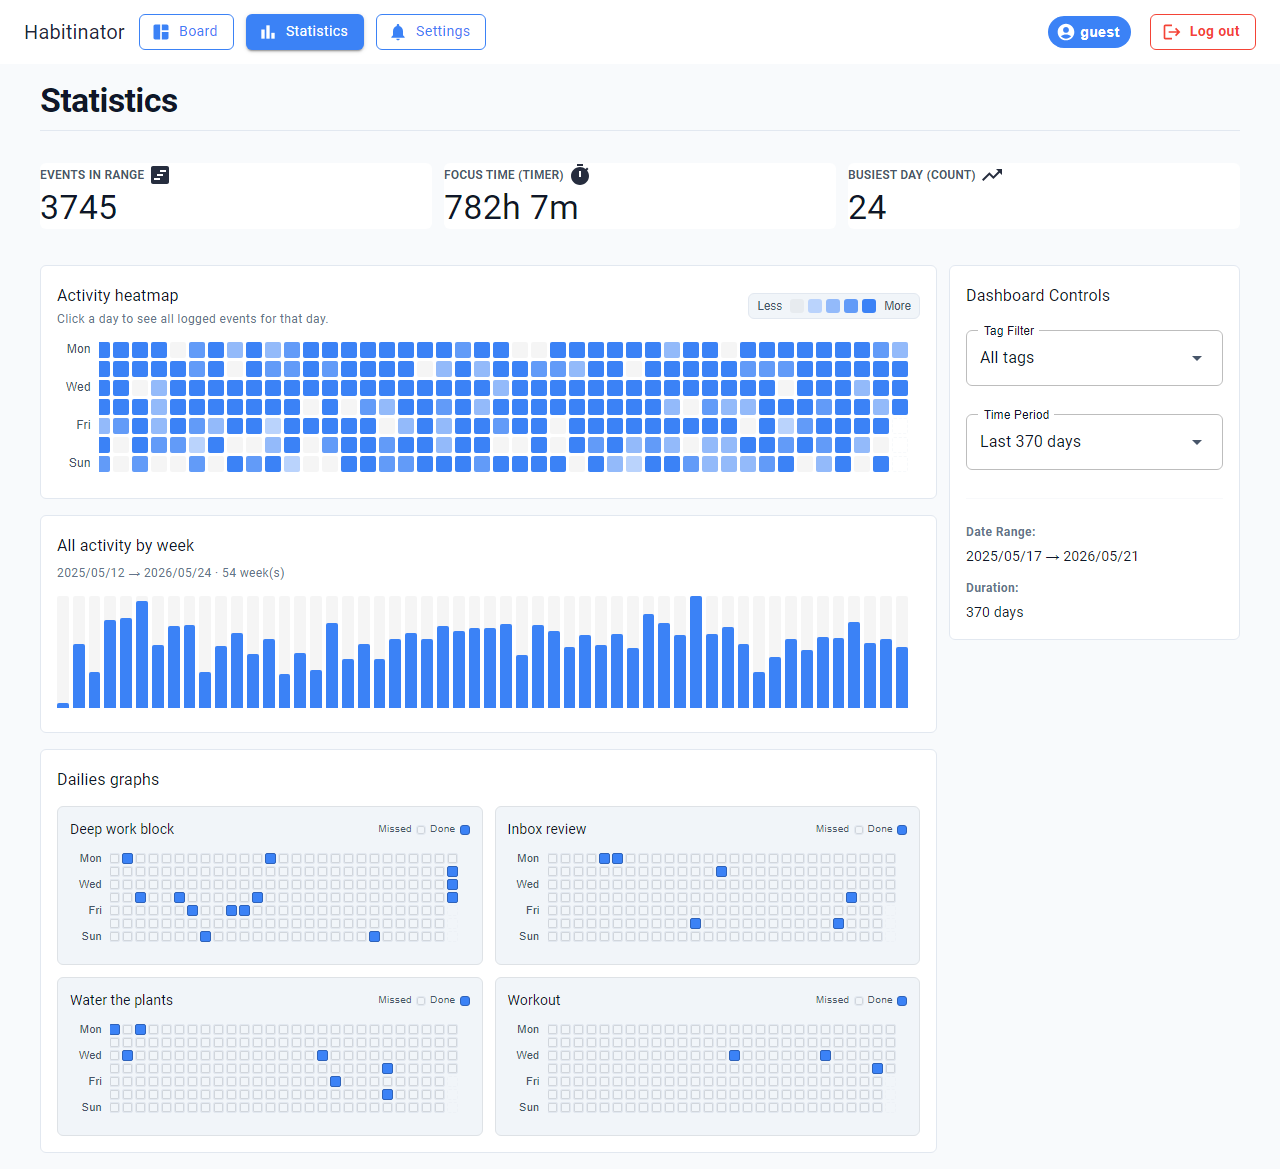
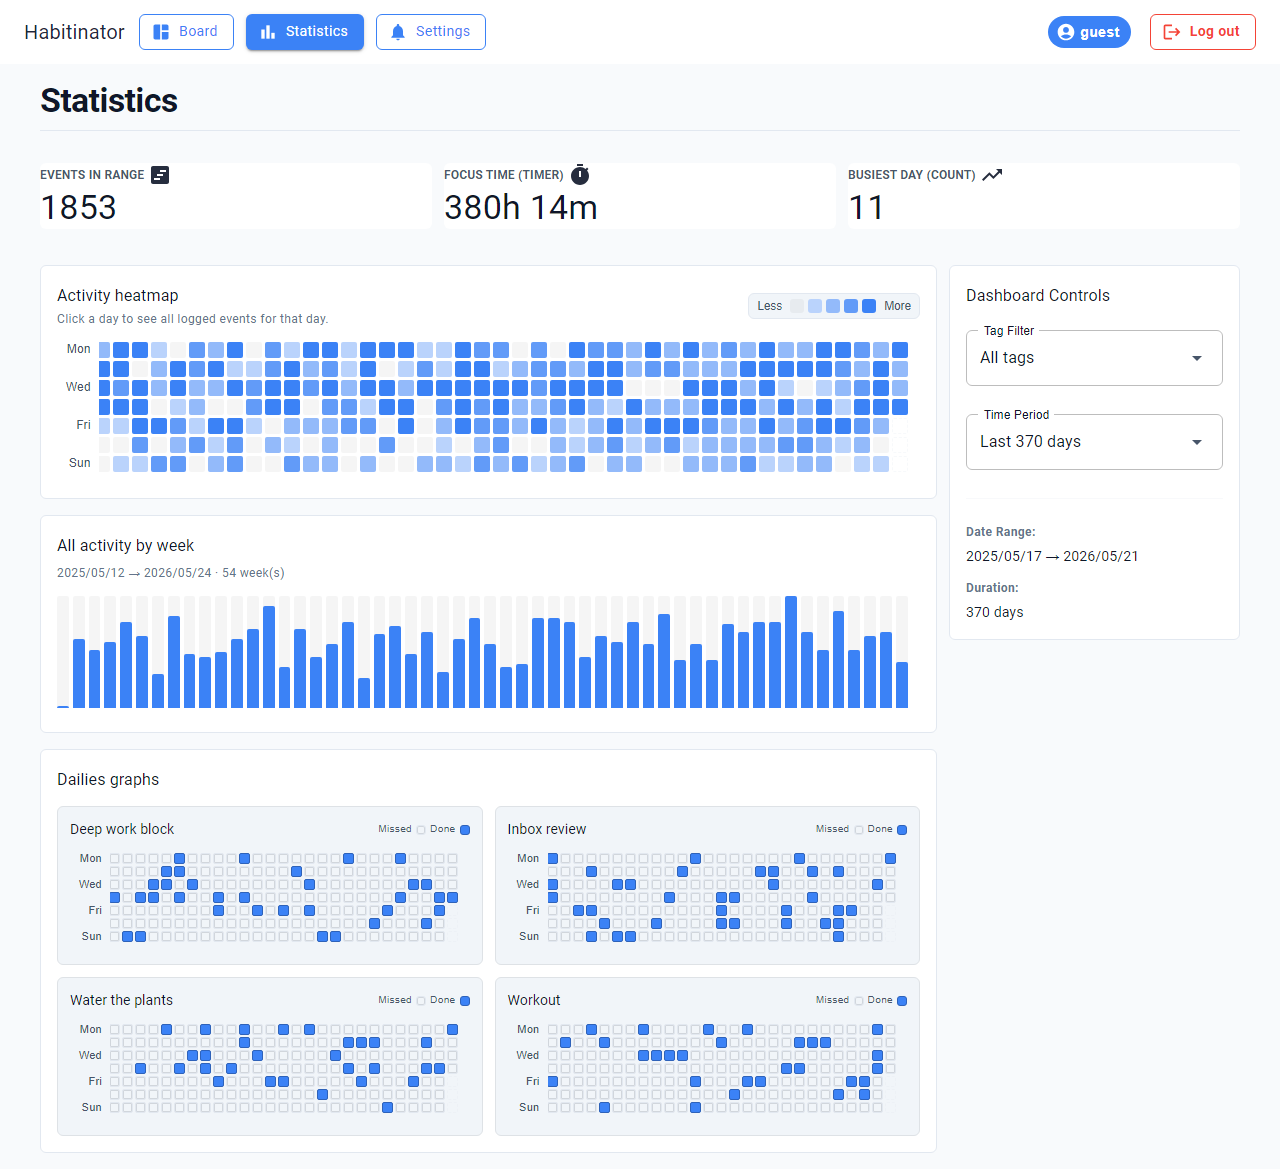
feat(demo): merge guest seeders and refresh labeled activity screenshots
Consolidate board and heatmap demo seeding in DemoGuestSeeder; always
store item titles on seeded events. Add ForceReseedActivity for activity-only
refresh and regenerate documentation PNGs from the updated demo data.

diff --git a/src/App.Web/Services/DemoGuestSeeder.cs b/src/App.Web/Services/DemoGuestSeeder.cs
@@ -7,25 +7,76 @@ using Microsoft.EntityFrameworkCore;
 
 namespace App.Web.Services;
 
-public static class GuestActivityDemoSeeder
+/// <summary>Seeds the demo guest board and synthetic activity history for statistics.</summary>
+public static class DemoGuestSeeder
 {
     private const int DemoRandomSeed = 2026_04_24;
     private const int HeatmapDataDays = 370;
+    private const int HeatmapPresentThreshold = 2_000;
 
-    public static async Task SeedIfMissingAsync(ApplicationDbContext db, Guid guestUserId,
+    /// <summary>Inserts demo board items when missing, then fills activity when the heatmap is sparse.</summary>
+    public static async Task SeedIfMissingAsync(
+        ApplicationDbContext db,
+        BoardPersistenceService board,
+        Guid guestUserId,
         CancellationToken cancellationToken = default)
+    {
+        await board.SeedBoardDataIfMissingAsync(guestUserId, cancellationToken);
+        await SeedDemoActivityIfMissingAsync(db, guestUserId, cancellationToken);
+    }
+
+    /// <summary>Replaces the full demo board and activity log (caller must clear guest data first).</summary>
+    public static async Task ReseedAllAsync(
+        ApplicationDbContext db,
+        BoardPersistenceService board,
+        Guid guestUserId,
+        CancellationToken cancellationToken = default)
+    {
+        await board.InsertDemoBoardDataAsync(guestUserId, cancellationToken);
+        await ReseedActivityAsync(db, guestUserId, cancellationToken);
+    }
+
+    /// <summary>Removes all guest activity events and inserts a fresh year-long demo series.</summary>
+    public static async Task ReseedActivityAsync(
+        ApplicationDbContext db,
+        Guid guestUserId,
+        CancellationToken cancellationToken = default)
+    {
+        var existing = await db.UserActivityEvents.Where(e => e.UserId == guestUserId).ToListAsync(cancellationToken);
+        if (existing.Count > 0)
+        {
+            db.UserActivityEvents.RemoveRange(existing);
+            await db.SaveChangesAsync(cancellationToken);
+        }
+
+        await SeedDemoActivityCoreAsync(db, guestUserId, cancellationToken);
+    }
+
+    private static async Task SeedDemoActivityIfMissingAsync(
+        ApplicationDbContext db,
+        Guid guestUserId,
+        CancellationToken cancellationToken)
     {
         // Board demo seed adds a few activity rows (e.g. daily streak backfill). A full guest heatmap is
         // thousands of events — if we have that many, skip. Otherwise fill in the year-long demo series.
-        const int heatmapPresentThreshold = 2_000;
         var n = await db.UserActivityEvents.CountAsync(e => e.UserId == guestUserId, cancellationToken);
-        if (n > heatmapPresentThreshold) return;
+        if (n > HeatmapPresentThreshold) return;
 
+        await SeedDemoActivityCoreAsync(db, guestUserId, cancellationToken);
+    }
+
+    private static async Task SeedDemoActivityCoreAsync(
+        ApplicationDbContext db,
+        Guid guestUserId,
+        CancellationToken cancellationToken)
+    {
         var boardItems = await db.BoardItems
             .AsNoTracking()
             .Where(x => x.UserId == guestUserId && x.DeletedAtUtc == null)
             .Select(x => new { x.Id, x.Section, x.Title })
             .ToListAsync(cancellationToken);
+
+        if (boardItems.Count == 0) return;
 
         var titlesById = boardItems.ToDictionary(x => x.Id, x => x.Title);
         var habitIds = boardItems.Where(x => x.Section == BoardSection.Habit).Select(x => x.Id).ToList();
@@ -55,14 +106,11 @@ public static class GuestActivityDemoSeeder
                 var occurred = new DateTimeOffset(utc, TimeSpan.Zero);
 
                 var eventType = PickEventType(faker);
-                Guid? boardItemId = PickBoardItemId(eventType, habitIds, dailyIds, todoIds, anyBoardItemIds, faker);
+                var boardItemId = PickBoardItemId(eventType, habitIds, dailyIds, todoIds, anyBoardItemIds, faker);
+                var title = titlesById[boardItemId];
 
                 int? durationSec = eventType == ActivityEventType.TimerSession
                     ? faker.Random.Int(120, 5400)
-                    : null;
-
-                string? customLabel = boardItemId is { } id && titlesById.TryGetValue(id, out var title)
-                    ? title
                     : null;
 
                 events.Add(new UserActivityEventEntity
@@ -73,7 +121,7 @@ public static class GuestActivityDemoSeeder
                     EventType = eventType,
                     BoardItemId = boardItemId,
                     DurationSeconds = durationSec,
-                    CustomLabel = customLabel
+                    CustomLabel = title
                 });
             }
         }
@@ -82,7 +130,7 @@ public static class GuestActivityDemoSeeder
         await db.SaveChangesAsync(cancellationToken);
     }
 
-    private static Guid? PickBoardItemId(
+    private static Guid PickBoardItemId(
         ActivityEventType eventType,
         IReadOnlyList<Guid> habitIds,
         IReadOnlyList<Guid> dailyIds,
@@ -90,9 +138,6 @@ public static class GuestActivityDemoSeeder
         IReadOnlyList<Guid> anyBoardItemIds,
         Faker faker)
     {
-        if (anyBoardItemIds.Count == 0 || !faker.Random.Bool(0.85f))
-            return null;
-
         IReadOnlyList<Guid> pool = eventType switch
         {
             ActivityEventType.HabitPlus or ActivityEventType.HabitMinus => habitIds,

diff --git a/src/App.Web/Services/DemoDataSeeder.cs b/src/App.Web/Services/DemoDataSeeder.cs
@@ -78,14 +78,13 @@ public static class DemoDataSeeder
             guest.UserPreferencesJson = "{}";
             await userManager.UpdateAsync(guest);
 
-            await boardPersistence.InsertDemoBoardDataAsync(guest.Id, cancellationToken);
             try
             {
-                await GuestActivityDemoSeeder.SeedIfMissingAsync(dbContext, guest.Id, cancellationToken);
+                await DemoGuestSeeder.ReseedAllAsync(dbContext, boardPersistence, guest.Id, cancellationToken);
             }
             catch (Exception ex)
             {
-                logger.LogWarning(ex, "Guest activity demo seed skipped after ForceReseed.");
+                logger.LogWarning(ex, "Demo guest seed skipped after ForceReseed.");
             }
 
             logger.LogWarning(
@@ -94,14 +93,33 @@ public static class DemoDataSeeder
             return;
         }
 
-        await boardPersistence.SeedBoardDataIfMissingAsync(guest.Id, cancellationToken);
+        if (demo.ForceReseedActivity)
+        {
+            try
+            {
+                await boardPersistence.SeedBoardDataIfMissingAsync(guest.Id, cancellationToken);
+                await DemoGuestSeeder.ReseedActivityAsync(dbContext, guest.Id, cancellationToken);
+            }
+            catch (Exception ex)
+            {
+                logger.LogWarning(ex, "Demo guest activity reseed skipped.");
+            }
+
+            logger.LogWarning(
+                "Demo guest activity reseeded ({Flag}). Turn off {Section}:{Flag} when finished.",
+                nameof(demo.ForceReseedActivity),
+                DemoUserOptions.SectionName,
+                nameof(demo.ForceReseedActivity));
+            return;
+        }
+
         try
         {
-            await GuestActivityDemoSeeder.SeedIfMissingAsync(dbContext, guest.Id, cancellationToken);
+            await DemoGuestSeeder.SeedIfMissingAsync(dbContext, boardPersistence, guest.Id, cancellationToken);
         }
         catch (Exception ex)
         {
-            logger.LogWarning(ex, "Guest activity demo seed skipped.");
+            logger.LogWarning(ex, "Demo guest seed skipped.");
         }
     }
 

diff --git a/src/App.Web/Services/BoardPersistenceService.cs b/src/App.Web/Services/BoardPersistenceService.cs
@@ -1008,7 +1008,8 @@ public sealed class BoardPersistenceService
                 UserId = userId,
                 OccurredAtUtc = DailyStreakCalculator.BackdatedDailyEventOccurredAt(d),
                 EventType = ActivityEventType.DailyComplete,
-                BoardItemId = dailyDeepId
+                BoardItemId = dailyDeepId,
+                CustomLabel = "Deep work block"
             });
         }
 

diff --git a/src/App.Web/Services/DemoUserOptions.cs b/src/App.Web/Services/DemoUserOptions.cs
@@ -15,4 +15,10 @@ public sealed class DemoUserOptions
     /// <c>DemoUser__ForceReseed=true</c>.
     /// </summary>
     public bool ForceReseed { get; set; }
+
+    /// <summary>
+    /// When true, only the guest activity log is cleared and regenerated (board items are kept).
+    /// Set with <c>DemoUser__ForceReseedActivity=true</c>.
+    /// </summary>
+    public bool ForceReseedActivity { get; set; }
 }
